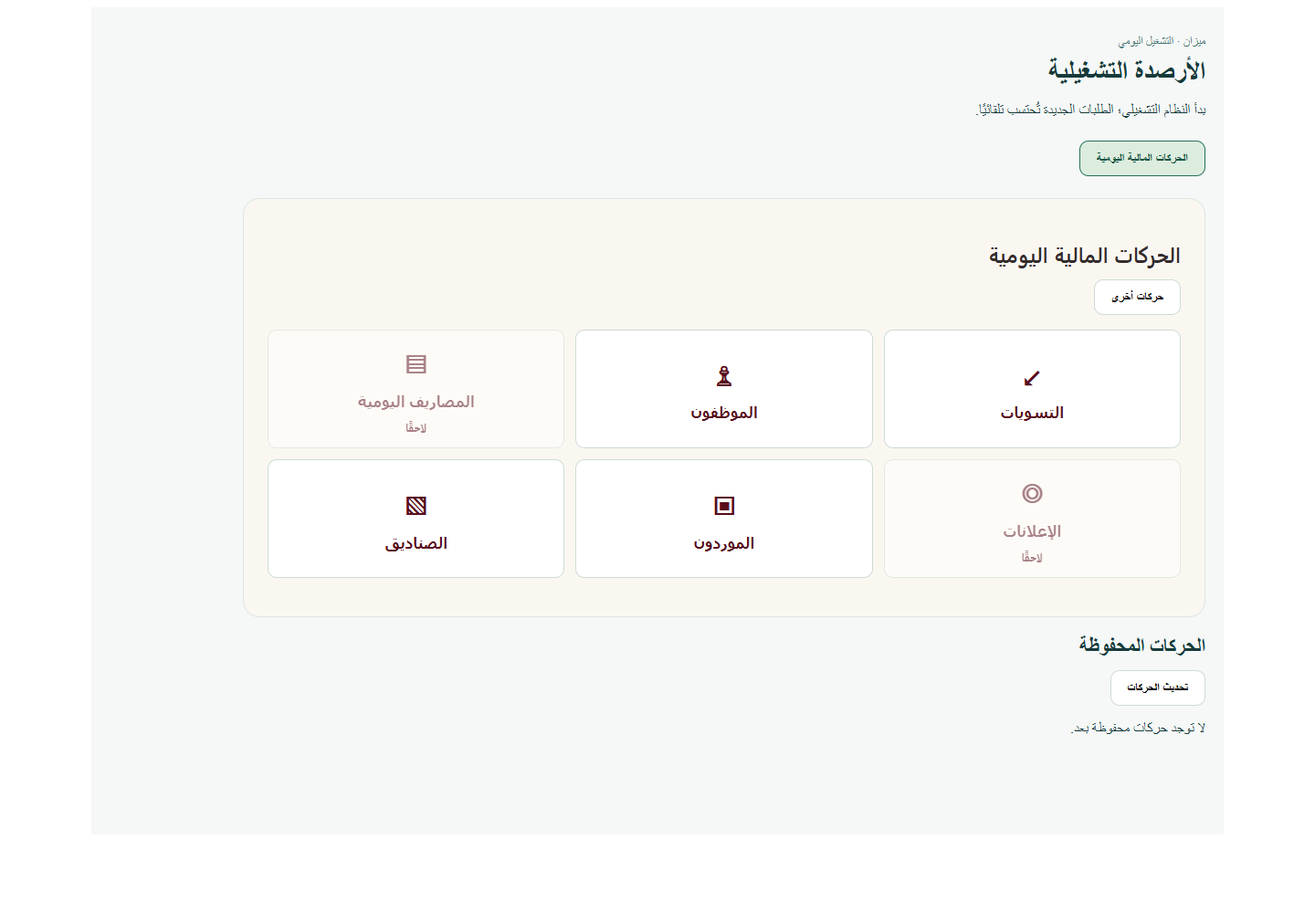
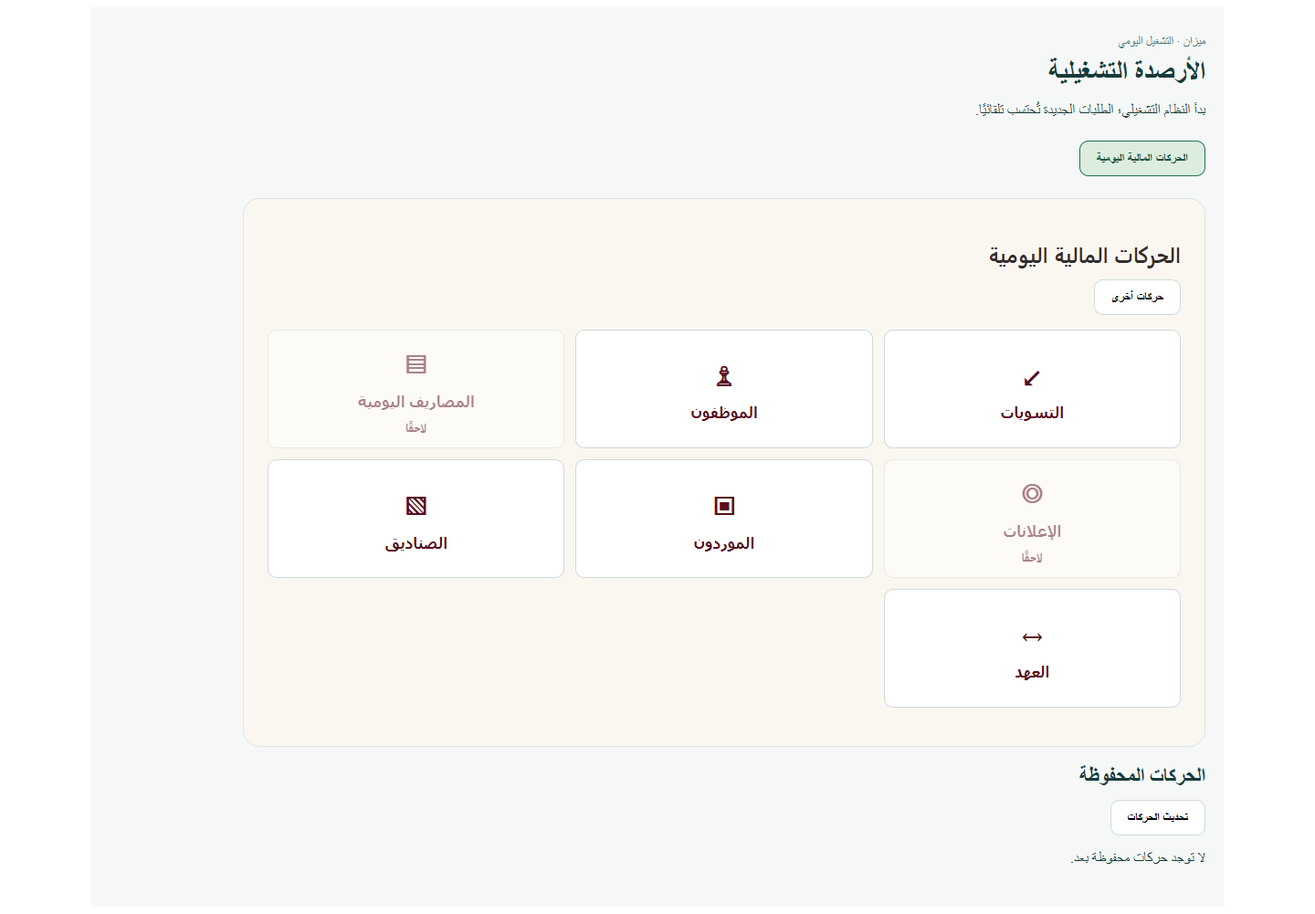
feat(operational): cash-only payments and custody supplier settlements

diff --git a/frontend/src/pages/operational/DailyMovements.jsx b/frontend/src/pages/operational/DailyMovements.jsx
@@ -30,6 +30,7 @@ export default function DailyMovements({source='mezan2',canManage=false,storageS
   const restoredForm = payload => ({...Object.fromEntries(Object.entries(empty).map(([key,value])=>[key,payload?.[key] ?? value])),...(payload?.business_date?{business_date:payload.business_date}:{})});
   const [form,setForm]=useState(()=>restoredForm(recovery.payload)),[accounts,setAccounts]=useState([]),[obligations,setObligations]=useState([]),[allocations,setAllocations]=useState(()=>Object.fromEntries((recovery.payload?.allocations||[]).map(a=>[a.obligation_id,a.amount]))),[busy,setBusy]=useState(false),[error,setError]=useState(recovery.error),[message,setMessage]=useState(''),[adding,setAdding]=useState(false),[entityVersion,setEntityVersion]=useState(0);
   const [stage,setStage]=useState(recovery.payload?'entry':'home'),[choices,setChoices]=useState([]),[choicesLoading,setChoicesLoading]=useState(false);
+  const [entryMode,setEntryMode]=useState("normal");
   const today=()=>{const d=new Date();return `${d.getFullYear()}-${String(d.getMonth()+1).padStart(2,'0')}-${String(d.getDate()).padStart(2,'0')}`;};
   useEffect(()=>{
     let alive=true;
@@ -58,7 +59,7 @@ export default function DailyMovements({source='mezan2',canManage=false,storageS
     setAllocations({});setAdding(false);
   };
   const eligible=obligations.filter(o=>o.party_type===form.party_type&&o.party_id===form.party_id&&o.currency===form.currency&&(allocatable(o) ?? 0n)>0n&&o.direction===(form.direction==='incoming'?'receivable':'payable'));
-  const availableAccounts=accounts.filter(a=>(!form.currency||a.currency===form.currency)&&(a.kind!=='employee_custody'||(form.party_type==='operating_expense'&&form.kind!=='settlement')));
+  const availableAccounts=accounts.filter(a=>(!form.currency||a.currency===form.currency)&&(a.kind!=='employee_custody'||(['operating_expense','supplier'].includes(form.party_type)&&form.kind==='payment')));
   const movementKinds=expenseOrWithdrawal?[['payment','دفع'],...(form.party_type==='operating_expense'&&eligible.some(o=>o.kind==='recurring')?[['settlement','تسوية التزام دوري']]:[]),['correction','تصحيح موثق']]:custody?[[form.direction==='incoming'?'collection':'payment',form.direction==='incoming'?'إرجاع عهدة':'تمويل عهدة'],['correction','تصحيح موثق']]:[['payment','دفع'],['collection','تحصيل'],['settlement','تسوية مستحق'],['transfer','تحويل'],['refund','استرداد'],['wallet_funding','تمويل محفظة'],['correction','تصحيح موثق']];
   const submit=async()=>{
     if(lock.current||recovery.error)return;
@@ -92,7 +93,7 @@ export default function DailyMovements({source='mezan2',canManage=false,storageS
       await api.movement(payload);
       try {clearPendingMovement(storageScope);}
       catch {setError('تم تأكيد الحركة لكن تعذر تحديث سجل الجهاز. أعد محاولة الحركة نفسها لإكمال التحقق.');return;}
-      setPendingPayload(null);setForm(empty);setAllocations({});setObligations([]);pending.current=null;setMessage('تم حفظ الحركة');if(cards)setStage('home');onSaved();
+      setPendingPayload(null);setForm(empty);setAllocations({});setObligations([]);pending.current=null;setMessage('تم حفظ الحركة');if(cards){setStage('home');setEntryMode('normal');}onSaved();
     }catch(e){
       if(e?.response?.data?.detail?.not_applied===true||([400,422].includes(e?.response?.status)&&e?.response?.data?.detail?.not_applied!==false)){
         try {clearPendingMovement(storageScope);setPendingPayload(null);pending.current=null;}
@@ -106,19 +107,29 @@ export default function DailyMovements({source='mezan2',canManage=false,storageS
     {pendingPayload&&<p role="status">هناك حركة محفوظة لم تُحسم نتيجتها. أعد المحاولة بالبيانات نفسها دون تكرار.</p>}
     {stage==='home'&&<div className="op-tile-grid">{[
       ['provider','التسويات','↙',true],['employee','الموظفون','♙',true],['operating_expense','المصاريف اليومية','▤',false],
-      ['ad_account','الإعلانات','◎',false],['supplier','الموردون','▣',true],['cash','الصناديق','▧',true]
-    ].map(([kind,label,icon,enabled])=><button className="op-tile" key={kind} disabled={!enabled||busy||!!recovery.error} onClick={()=>{change({...empty,party_type:kind,direction:kind==='provider'?'incoming':'outgoing',kind:kind==='cash'?'transfer':kind==='provider'?'collection':'payment',source_account_type:'bank',business_date:today()});setStage('entities');}}><span aria-hidden="true">{icon}</span><strong>{label}</strong>{!enabled&&<small>لاحقًا</small>}</button>)}</div>}
-    {stage==='entities'&&<><button className="op-link" onClick={()=>{setStage('home');setAdding(false);}}>العودة للعمليات</button><h3>{form.party_type==='provider'?'التسويات — اختر المنصة':form.party_type==='cash'?'اختر الصندوق':form.party_type==='supplier'?'اختر المورد':'اختر الموظف'}</h3>
+      ['ad_account','الإعلانات','◎',false],['supplier','الموردون','▣',true],['cash','الصناديق','▧',true],['employee_custody','العهد','↔',true]
+    ].map(([kind,label,icon,enabled])=><button className="op-tile" key={kind} disabled={!enabled||busy||!!recovery.error} onClick={()=>{setEntryMode('normal');change({...empty,party_type:kind,direction:kind==='provider'?'incoming':'outgoing',kind:kind==='cash'?'transfer':kind==='provider'?'collection':'payment',source_account_type:'bank',business_date:today()});setStage('entities');}}><span aria-hidden="true">{icon}</span><strong>{label}</strong>{!enabled&&<small>لاحقًا</small>}</button>)}</div>}
+    {stage==='entities'&&<><button className="op-link" onClick={()=>{setStage('home');setAdding(false);setEntryMode('normal');}}>العودة للعمليات</button><h3>{form.party_type==='provider'?'التسويات — اختر المنصة':form.party_type==='cash'?'اختر الصندوق':form.party_type==='supplier'?'اختر المورد':form.party_type==='employee_custody'?'اختر عهدة الموظف':'اختر الموظف'}</h3>
+      {entryMode==='cash'&&<Field label="سداد كاش إلى"><select value={form.party_type} onChange={e=>change({party_type:e.target.value,party_id:''})}><option value="supplier">مورد</option><option value="employee">موظف</option></select></Field>}
       {choicesLoading?<p role="status">جارٍ تحميل الجهات…</p>:choices.length===0&&<p>لا توجد جهات متاحة من ميزان 2.</p>}
-      <div className="op-tile-grid">{choices.map(row=><button className="op-tile" key={row.id} disabled={row.ready===false||row.settings_complete===false} onClick={()=>{change({party_id:row.id,currency:row.currency});setStage('entry');}}><strong>{row.name}</strong>{(row.ready===false||row.settings_complete===false)&&<small>إعداد غير مكتمل</small>}</button>)}</div>
+      <div className="op-tile-grid">{choices.map(row=><button className="op-tile" key={row.id} disabled={row.ready===false||row.settings_complete===false} onClick={()=>{if(form.party_type==='cash'){setEntryMode('cash');change({source_account_type:'cash',bank_id:row.id,currency:row.currency,party_type:'supplier',party_id:'',kind:'payment',direction:'outgoing'});}
+       else if(form.party_type==='employee_custody'&&entryMode==='normal'){change({party_id:row.id,currency:row.currency});setStage('custody');}
+       else {change({party_id:row.id,currency:row.currency});setStage('entry');}}}><strong>{row.name}</strong>{(row.ready===false||row.settings_complete===false)&&<small>إعداد غير مكتمل</small>}</button>)}</div>
       {form.party_type==='cash'&&canCreateCash&&<button className="op-link" onClick={()=>setAdding(true)}>+ إضافة صندوق</button>}
       {adding&&<AddOperationalEntity kind="cash" onCancel={()=>setAdding(false)} onAdded={row=>{setAdding(false);setEntityVersion(v=>v+1);setAccounts(a=>[...a.filter(i=>i.id!==row.id),row]);}}/>}
     </>}
+    {stage==='custody'&&<><button className="op-link" onClick={()=>setStage('entities')}>العودة للعهد</button><h3>{choices.find(r=>r.id===form.party_id)?.name}</h3>
+      <button className="op-primary" onClick={()=>{setEntryMode('custody_supplier');change({source_account_type:'employee_custody',bank_id:form.party_id,party_type:'supplier',party_id:'',direction:'outgoing',kind:'payment'});setStage('entities');}}>سداد مورد من العهدة</button>
+      <button className="op-primary" onClick={()=>{setEntryMode('custody_cash');change({source_account_type:'cash',bank_id:'',direction:'incoming',kind:'collection'});setStage('entry');}}>نقل العهدة إلى صندوق</button>
+      <p role="status">تسوية مقابل مخزون منتجات — غير متاحة حتى اعتماد إثبات استلام وقيمة تشغيلي مستقل عن المحاسبة.</p>
+    </>}
     {stage==='entry'&&<><button className="op-link" disabled={busy||!!pendingPayload||!!recovery.error} onClick={()=>setStage('entities')}>العودة للجهات</button><h3>{choices.find(r=>r.id===form.party_id)?.name}</h3>
       <fieldset className="op-entry-grid" disabled={busy||!!pendingPayload||!!recovery.error}>
-      {form.party_type==='cash'&&<Field label="العملية"><select value={form.direction} onChange={e=>change({direction:e.target.value,bank_id:''})}><option value="outgoing">تمويل الصندوق</option><option value="incoming">تحويل من الصندوق</option></select></Field>}
-      {form.party_type!=='provider'&&<Field label={form.party_type==='cash'?(form.direction==='outgoing'?'التمويل من':'التحويل إلى'):'السداد من'}><select value={form.source_account_type} onChange={e=>change({source_account_type:e.target.value,bank_id:''})}><option value="bank">بنك</option><option value="cash">صندوق</option></select></Field>}
-      <Field label={form.source_account_type==='cash'?'الصندوق':'البنك'}><select value={form.bank_id} onChange={e=>change({bank_id:e.target.value})}><option value="">اختر الحساب</option>{availableAccounts.filter(a=>(form.source_account_type==='bank_auto'||a.kind===form.source_account_type)&&!(form.party_type===a.kind&&form.party_id===a.id)).map(a=><option key={a.id} value={a.id}>{a.name}</option>)}</select></Field>
+      {entryMode==='normal'&&form.party_type!=='provider'&&<Field label="السداد من"><select value={form.source_account_type} onChange={e=>change({source_account_type:e.target.value,bank_id:''})}><option value="bank">بنك</option><option value="cash">صندوق</option></select></Field>}
+      {entryMode==='cash'&&<p>السداد كاش من الصندوق المختار.</p>}
+      {entryMode==='custody_supplier'&&<p>السداد من العهدة المختارة، دون خصم جديد من البنك.</p>}
+      {entryMode==='custody_cash'&&<p>تخفيض العهدة وزيادة الصندوق بنفس المبلغ، دون مصروف جديد.</p>}
+      <Field label={form.source_account_type==='cash'?'الصندوق':form.source_account_type==='employee_custody'?'العهدة':'البنك'}><select disabled={entryMode==='cash'||entryMode==='custody_supplier'} value={form.bank_id} onChange={e=>change({bank_id:e.target.value})}><option value="">اختر الحساب</option>{availableAccounts.filter(a=>(form.source_account_type==='bank_auto'||a.kind===form.source_account_type)&&!(form.party_type===a.kind&&form.party_id===a.id)).map(a=><option key={a.id} value={a.id}>{a.name}</option>)}</select></Field>
       <Field label={form.party_type==='provider'?'المبلغ الوارد':'المبلغ'}><input inputMode="decimal" value={form.amount} onChange={e=>change({amount:e.target.value})}/></Field>
       <Field label="التاريخ"><input type="date" value={form.business_date||''} onChange={e=>change({business_date:e.target.value})}/></Field>
       <div className="op-entry-wide"><Field label="رسالة الإيصال (اختياري)"><textarea rows={5} value={form.note} placeholder="الصق رسالة البنك أو اكتب وصف العملية" onChange={e=>change({note:e.target.value})}/></Field></div>

diff --git a/frontend/src/pages/operational/OperationalBalances.test.jsx b/frontend/src/pages/operational/OperationalBalances.test.jsx
@@ -288,7 +288,7 @@ const fillMovement = async () => {
 const cardClick=async text=>{await act(async()=>[...host.querySelectorAll('.op-tile')].find(b=>b.textContent.includes(text)).click());};
 test.each(['supplier','employee'])('card %s payment supports cash, date, no receipt and exact retry',async kind=>{
  await render(<DailyMovements cards/>);
- expect(host.querySelectorAll('.op-tile')).toHaveLength(6);
+ expect(host.querySelectorAll('.op-tile')).toHaveLength(7);
  await cardClick(kind==='supplier'?'الموردون':'الموظفون');await cardClick('جهة تجريبية');
  await input(host.querySelectorAll('select')[0],'cash');await input(host.querySelectorAll('select')[1],'cash1');
  await input(host.querySelector('input[inputmode="decimal"]'),'125.50');
@@ -298,17 +298,24 @@ test.each(['supplier','employee'])('card %s payment supports cash, date, no rece
  expect(first).toEqual(expect.objectContaining({party_type:kind,kind:'payment',direction:'outgoing',bank_id:'cash1',source_account_type:'cash',business_date:'2026-10-07',amount:'125.50',receipt_id:null}));
  expect(host.querySelector('fieldset').disabled).toBe(true);
  await click('إعادة محاولة الحركة');expect(api.movement.mock.calls[1][0]).toEqual(first);
- expect(host.querySelectorAll('.op-tile')).toHaveLength(6);expect(api.receipt).not.toHaveBeenCalled();
+ expect(host.querySelectorAll('.op-tile')).toHaveLength(7);expect(api.receipt).not.toHaveBeenCalled();
 });
-test('cash cards fund and return with opposite directions and exclude self transfer',async()=>{
+test('cash card is cash-only supplier or employee payment',async()=>{
  await render(<DailyMovements cards canCreateCash/>);await cardClick('الصناديق');
  expect(button('+ إضافة صندوق')).toBeDefined();await cardClick('جهة تجريبية');
- await input(host.querySelectorAll('select')[2],'bank1');await input(host.querySelector('input[inputmode="decimal"]'),'200');await click('حفظ الحركة');
- expect(api.movement).toHaveBeenLastCalledWith(expect.objectContaining({kind:'transfer',party_type:'cash',party_id:'cash1',direction:'outgoing',bank_id:'bank1'}));
- await cardClick('الصناديق');await cardClick('جهة تجريبية');await input(host.querySelectorAll('select')[0],'incoming');
- await input(host.querySelectorAll('select')[1],'cash');expect([...host.querySelectorAll('select')[2].options].map(o=>o.value)).not.toContain('cash1');
- await input(host.querySelectorAll('select')[1],'bank');await input(host.querySelectorAll('select')[2],'bank1');await input(host.querySelector('input[inputmode="decimal"]'),'50');await click('حفظ الحركة');
- expect(api.movement).toHaveBeenLastCalledWith(expect.objectContaining({kind:'transfer',direction:'incoming',party_id:'cash1',bank_id:'bank1'}));
+ await input(host.querySelector('select'),'employee');await cardClick('جهة تجريبية');
+ expect(host.querySelectorAll('select')).toHaveLength(1);expect(host.querySelector('select').disabled).toBe(true);expect(host.querySelector('select').value).toBe('cash1');
+ expect(host.textContent).toContain('السداد كاش');expect(host.textContent).not.toContain('التمويل من');
+ await input(host.querySelector('input[inputmode="decimal"]'),'200');await click('حفظ الحركة');
+ expect(api.movement).toHaveBeenLastCalledWith(expect.objectContaining({kind:'payment',party_type:'employee',party_id:'employee1',direction:'outgoing',bank_id:'cash1',source_account_type:'cash'}));
+});
+test.each(['supplier','cash'])('custody card %s operation has one source and no inventory shortcut',async operation=>{
+ await render(<DailyMovements cards/>);await cardClick('العهد');await cardClick('جهة تجريبية');
+ expect(host.textContent).toContain('غير متاحة حتى اعتماد إثبات');
+ if(operation==='supplier') {await click('سداد مورد من العهدة');await cardClick('جهة تجريبية');expect(host.querySelector('select').disabled).toBe(true);}
+ else {await click('نقل العهدة إلى صندوق');await input(host.querySelector('select'),'cash1');expect([...host.querySelector('select').options].map(o=>o.value)).not.toContain('bank1');}
+ await input(host.querySelector('input[inputmode="decimal"]'),'40');await click('حفظ الحركة');
+ expect(api.movement).toHaveBeenLastCalledWith(expect.objectContaining(operation==='supplier'?{kind:'payment',party_type:'supplier',bank_id:'employee_custody1',source_account_type:'employee_custody',direction:'outgoing'}:{kind:'collection',party_type:'employee_custody',party_id:'employee_custody1',bank_id:'cash1',source_account_type:'cash',direction:'incoming'}));
 });
 test('non-owner cash card hides creation and platforms keep incoming bank form',async()=>{
  await render(<DailyMovements cards/>);await cardClick('الصناديق');expect(button('+ إضافة صندوق')).toBeUndefined();await click('العودة للعمليات');

diff --git a/backend/tests/test_operational_balance_custody_payments.py b/backend/tests/test_operational_balance_custody_payments.py
@@ -1,0 +1,60 @@
+import asyncio
+from operational_balance_service import save_opening, report
+from operational_balance_store import read
+from test_operational_balance_integration import run, opening, START
+from test_operational_balance_app_permissions import client, grant, WRITE
+from test_operational_balance_assigned_banks import command
+
+
+async def fixture(db):
+    await db.mezan_employees_v2.insert_many([
+        {'id':'employee','user_id':'owner','account_user_id':'staff','name':'Staff','status':'active'},
+        {'id':'other-employee','user_id':'owner','account_user_id':'other-user','name':'Other','status':'active'}])
+    for payload in [opening(),opening('supplier','supplier','500','for_party','supplier-open'),opening('employee_custody','employee','200',request='custody-open')]:
+        await save_opening(db,'owner','owner',payload,clock=START)
+    await save_opening(db,'owner','owner',{'request_id':'start-custody'},finish=True,clock=START)
+    await grant(db,[WRITE])
+    await db.mezan_mobile_app_access_v1.update_one({'user_id':'staff'},{'$set':{'operational_banks.cash_ids':['cash']}})
+
+
+def test_custody_supplier_payment_and_cash_return_do_not_debit_bank():
+    async def scenario(db):
+        await fixture(db)
+        async with client(db) as c:
+            rows=(await c.get('/api/operational-balances/entities/employee_custody')).json()['items']
+            assert [r['id'] for r in rows]==['employee']
+            payment=command(bank_id='employee',source_account_type='employee_custody',amount='80',request_id='supplier-custody')
+            responses=await asyncio.gather(*[c.post('/api/operational-balances/movements',json=payment) for _ in range(5)])
+            assert all(r.status_code==200 for r in responses),[r.text for r in responses]
+            returned=command(party_type='employee_custody',party_id='employee',bank_id='cash',source_account_type='cash',kind='collection',direction='incoming',amount='40',request_id='return-cash')
+            assert (await c.post('/api/operational-balances/movements',json=returned)).status_code==200
+        state=await read(db,'owner');result=report(state); rows={r['party_id']:r for r in result['parties']}
+        assert len(state['movements'])==2
+        assert rows['bank']['actual']=='1000.00'
+        assert rows['cash']['actual']=='40.00'
+        assert rows['employee']['custody_remaining']=='80.00'
+        assert rows['supplier']['outstanding_payable']=='420.00'
+        assert result['summary']['operating_expenses_paid']=='0.00'
+    run(scenario)
+
+
+def test_custody_overdraw_other_employee_and_unknown_inventory_rejected():
+    async def scenario(db):
+        await fixture(db)
+        async with client(db) as c:
+            base=command(bank_id='employee',source_account_type='employee_custody',amount='201')
+            assert (await c.post('/api/operational-balances/movements',json=base)).status_code==409
+            assert (await c.post('/api/operational-balances/movements',json={**base,'bank_id':'other-employee','amount':'10','request_id':'other-custody'})).status_code==403
+            assert (await c.post('/api/operational-balances/movements',json={**base,'kind':'inventory_settlement','request_id':'unknown-stock'})).status_code==422
+        assert (await read(db,'owner'))['movements']==[]
+    run(scenario)
+
+
+def test_concurrent_custody_payments_cannot_spend_same_balance_twice():
+    async def scenario(db):
+        await fixture(db)
+        async with client(db) as c:
+            replies=await asyncio.gather(*[c.post('/api/operational-balances/movements',json=command(bank_id='employee',source_account_type='employee_custody',amount='150',request_id=f'competing-{i}')) for i in range(2)])
+            assert sorted(r.status_code for r in replies)==[200,409]
+        assert len((await read(db,'owner'))['movements'])==1
+    run(scenario)

diff --git a/backend/operational_app_banks.py b/backend/operational_app_banks.py
@@ -55,6 +55,21 @@ async def require_assigned_bank(db, owner, actor, payload):
     config = await assigned_banks(db, owner, actor)
     kind = payload.get("source_account_type", "bank_auto")
     allowed = config["bank_ids"] if kind == "bank" else config["cash_ids"] if kind == "cash" else config["bank_ids"] + config["cash_ids"] if kind == "bank_auto" else []
+    custody = await assigned_custody(db, owner, actor)
+    if kind == "employee_custody":
+        allowed = custody
+    if payload.get("party_type") == "employee_custody" and payload.get("party_id") not in custody:
+        raise HTTPException(403, {"code": "operational_custody_not_assigned"})
     destination = config["bank_ids"] if payload.get("party_type") == "bank" else config["cash_ids"]
     if payload.get("bank_id") not in allowed or (payload.get("party_type") in {"bank", "cash"} and payload.get("party_id") not in destination):
         raise HTTPException(403, {"code": "operational_bank_not_assigned", "message": "اختر بنكًا أو صندوقًا مسندًا لك من المالك"})
+
+
+async def assigned_custody(db, owner, actor):
+    rows = await entities(db, owner, "employee_custody")
+    if actor.get("role") == "owner":
+        return [row["id"] for row in rows]
+    linked = await db.mezan_employees_v2.find({"user_id": owner, "account_user_id": actor["id"]}).to_list(2)
+    if len(linked) != 1:
+        return []
+    return [row["id"] for row in rows if row["id"] == linked[0].get("id")]

diff --git a/backend/operational_balance_service.py b/backend/operational_balance_service.py
@@ -190,8 +190,8 @@ async def create_movement(db, owner, actor, payload, *, source="mezan2", clock=N
                 fail("operational_bank_required", "اختر بنكًا أو صندوقًا معتمدًا من ميزان 2")
             bank = banks[0]
         if bank and bank["kind"] == "employee_custody":
-            if row["kind"] != "operating_expense" or payload["direction"] != "outgoing" or payload["kind"] != "payment":
-                fail("operational_custody_source_invalid", "الصرف من العهدة مخصص للمصروف التشغيلي الصادر")
+            if row["kind"] not in {"operating_expense", "supplier"} or payload["direction"] != "outgoing" or payload["kind"] != "payment":
+                fail("operational_custody_source_invalid", "العهدة تسمح بصرف تشغيلي أو سداد مورد فقط")
             balance = next((r for r in report(state)["parties"] if r["party_type"] == "employee_custody"
                             and r["party_id"] == bank["id"] and r["currency"] == currency), {})
             if amount > Decimal(balance.get("custody_remaining", "0")):

diff --git a/backend/operational_balance_routes.py b/backend/operational_balance_routes.py
@@ -196,6 +196,10 @@ def make_operational_balance_router(db, current_user):
         from operational_balance_sources import entities
         try:
             rows = await entities(db, owner, kind)
+            if source == "employee_app" and kind == "employee_custody":
+                from operational_app_banks import assigned_custody
+                own = await assigned_custody(db, owner, actor)
+                rows = [r for r in rows if r["id"] in own]
             if source == "employee_app" and kind in {"bank", "cash"}:
                 from operational_app_banks import assigned_banks
                 allowed = await assigned_banks(db, owner, actor)

diff --git a/docs/operations/OPERATIONAL_APP_PERMISSIONS/CUSTODY_20261007.md b/docs/operations/OPERATIONAL_APP_PERMISSIONS/CUSTODY_20261007.md
@@ -1,0 +1,36 @@
+# Cash-only card and custody settlement follow-up
+
+Supersedes the cash card interaction in CASH_CARDS_20261007.md. Cashbox card now
+selects a cashbox followed by supplier/employee cash payment. Its source is fixed
+to that cashbox; no bank selector or bank-transfer operation in this card.
+Existing operational transfer API and historical retry compatibility are retained.
+
+Custody card selects an employee custody then offers supplier payment or return
+to an assigned cashbox. Supplier payment uses the existing allocation/payment
+engine, reduces custody and supplier outstanding, and never debits a bank.
+Cash return reduces custody and increases cash without an expense. Native custody
+IDs are restricted to the MZ2 employee whose account_user_id matches the actor;
+the owner sees all. Missing/ambiguous account links fail closed. This is rechecked
+at the existing persistence authorization boundary. Browser membership unchanged.
+
+Inventory settlement is NOT implemented/accepted. Investigation found the
+existing purchase_receiving_service._validate_posting requires active accounting
+and its approval transaction invokes post_journal_v2. It creates G47 purchase
+receipts, an accounting supplier liability, and capitalization costs with tax
+treatment. No independent custody-funded inventory settlement contract was found.
+Calling this flow or treating capitalized cost as cash paid would cross the
+authorized operational-only boundary. UI explains unavailability and no posting
+shortcut is exposed. Next decision: define/read an independent operational
+inventory receipt/value/payment linkage with ownership and duplicate prevention.
+No purchase/stock/accounting source was modified or invoked.
+
+Verification: all backend operational + employee management tests 211 PASS;
+five Web suites 76 PASS; native complete typecheck/verifier chain PASS, with
+additional custody mode renders/payload tests PASS. Real isolated Mongo cases
+prove bank unchanged, supplier reduction, custody return to cash, concurrent
+overdraw rejection, retry deduplication, other-employee denial and unsupported
+inventory operation rejection. Browser synthetic fixture passes desktop/mobile
+cash-only form and save, no external requests. This is not device UAT.
+
+Drafts #1271/#257 only. Frozen #1263 unchanged. No APK build, merge, deployment,
+prepare, prepublish, release/lease changes, or Production write. Production writes=0.
